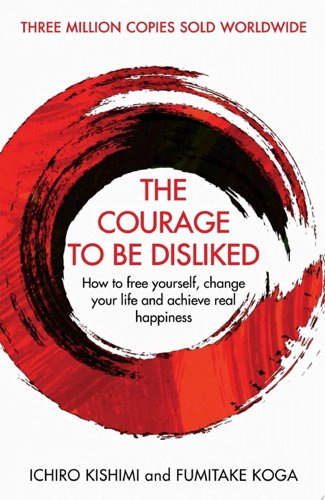
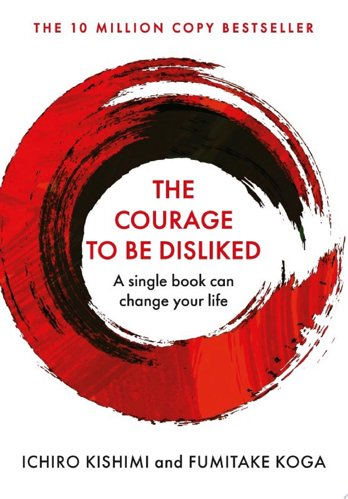
Update review

diff --git a/src/content/read/2025/2025-12-14-the-courage-to-be-disliked.md b/src/content/read/2025/2025-12-14-the-courage-to-be-disliked.md
@@ -1,6 +1,6 @@
 ---
 slug: 2025/12/14/the-courage-to-be-disliked
-title: "Book Review: The Courage To Be Disliked: A single book can change your life"
+title: "Book Review: The Courage To Be Disliked: The life changing multi-million copy global bestseller"
 shortTitle: "The Courage To Be Disliked"
 author: Julien Sobczak
 date: 2025-12-14
